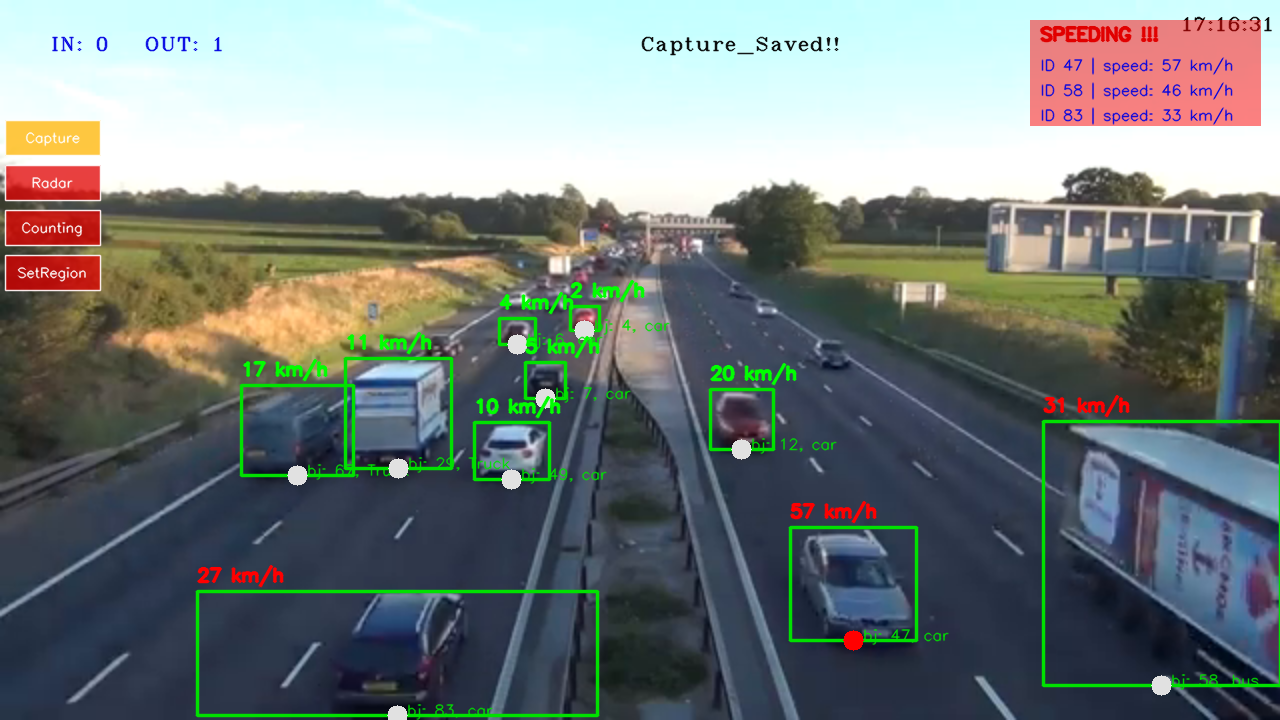
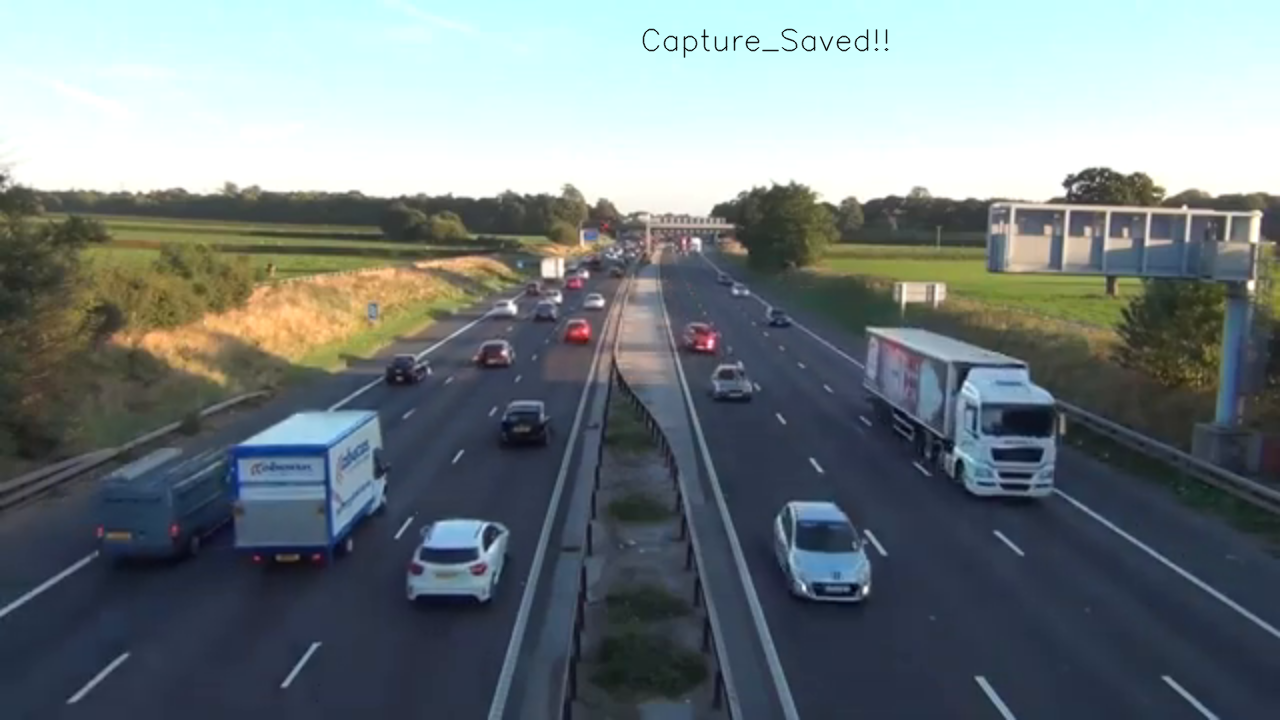
popups

diff --git a/main.py b/main.py
@@ -1,76 +1,120 @@
 from ultralytics import YOLO
 import cv2
-import numpy as np
 from counting import Counter
 from radar import Radar
 import time
-# from tools import Tools
-frame = 0
+import tkinter as tk
+from tkinter import messagebox
+root = tk.Tk()
+root.withdraw()
+
+# Show alert popup
+
+
 WIDTH = 1280
 HEIGHT = 720
-x1, y1, x2, y2 = 5, 120, 100, 155
+
 mouse_pos = (0, 0)
+
 drawing = False
-ix, iy, = -1, -1 
-fx, fy= -1, -1 
+ix, iy = -1, -1
 draw = 0
+region_mode = False
+regions = []
+
+def draw_regions(frame):
+
+    for x1, y1, x2, y2, color_id in regions:
+
+        if color_id == 0:
+            color = (0, 0, 225)
+        else:
+            color = (225, 0, 0)
+
+        cv2.rectangle(frame,(x1, y1),(x2, y2),color,2)
 
 def select_region(event, x, y, flags, param):
-    global ix, iy, fx, fy, drawing, img, backup_img, draw
-    frame  = param["frame"]
-    backup_img =  frame.copy()
-        # tools =  param["tools"]
+
+    global mouse_pos
+    global drawing, ix, iy
+    global draw, region_mode, regions
     radar = param["radar"]
     counter = param["counter"]
-    global mouse_pos 
+    frame = param["frame"]
+    img =  frame.copy()
+    shapes_history = []
+    trigger_alert = True
+    if frame is None:
+        return
+    mouse_pos = (x, y)
+
     if event == cv2.EVENT_MOUSEMOVE:
-        mouse_pos = (x, y)
-    elif event ==cv2.EVENT_LBUTTONDOWN:
-        if (5<x<100) and (120<y<155):#cap
-            frame= param["frame"]
+
+        if drawing:
+            param["current_x"] = x
+            param["current_y"] = y
+        return
+    
+    if event == cv2.EVENT_LBUTTONDOWN:
+        if 5 < x < 100 and 120 < y < 155:
             if frame is not None:
                 capture = frame.copy()
-                cv2.putText(capture, "Capture_Saved!! ",(640,50),5,1,(0,0,0),1, cv2.LINE_AA)
+                cv2.putText(capture,"Capture_Saved!!",(640, 50),
+                            cv2.FONT_HERSHEY_SIMPLEX,1,(0, 0, 0),1,cv2.LINE_AA)
                 cv2.imwrite("Capture_saved.png",capture)
-        elif (5<x<100) and (165<y<200):#radar
-            radar.btn =not radar.btn 
-        elif (5<x<100) and (210<y<245):#counting
-            counter.btn= not counter.btn
-        elif (5<x<100) and (255<y<290):#ocr
-        #     tools.btn =  not tools.btn
-            if event == cv2.EVENT_LBUTTONDOWN and draw == 0: #red == 0
-                drawing = True
-                ix, iy = x, y
-            if event == cv2.EVENT_LBUTTONDOWN and draw == 1: #blue = -1
-                draw = 1
-                drawing = True
-                ix, iy = x, y
-            elif event == cv2.EVENT_MOUSEMOVE:
-                if drawing:
-                    frame = backup_img.copy() #reset the image avoid multi drawinf
-                    if draw == 0:
-                        cv2.rectangle(frame, (ix, iy), (x, y), (0, 0, 225), 2)
-                    elif draw == 1:
-                        cv2.rectangle(frame, (ix, iy), (x, y), (225, 0, 0), 2)
+            return
+        elif 5 < x < 100 and 165 < y < 200:         #*radar btn
+            radar.btn = not radar.btn
+            return
+        elif 5 < x < 100 and 210 < y < 245:         #*counter btn
+            messagebox.showwarning("Alert", "ALERT: Action Detected!")
+            root.destroy()
+        #rectangle coordinate
+        elif 5 < x < 100 and 255 < y < 290:          #*region_btn
+            region_mode = not region_mode
+            print("Region mode:", region_mode)
+            return
+        if region_mode:
+            drawing = True
+            ix = x
+            iy = y
+            param["current_x"] = x
+            param["current_y"] = y
 
-            elif event == cv2.EVENT_LBUTTONUP and draw == 0:#red 0
-                drawing = False
-                fx, fy = x, y
-                cv2.rectangle(backup_img, (ix, iy), (fx, fy), ( 0, 0, 225), 2)
-                frame = backup_img.copy()
-                draw= 1
+    elif event == cv2.EVENT_LBUTTONUP:
 
-            elif event == cv2.EVENT_LBUTTONUP and draw == 1:#blue 1
-                jx, jy = x, y
-                drawing = False
-                cv2.rectangle(backup_img, (ix, iy), (jx, jy ), ( 225, 0, 0), 2)
-                frame = backup_img.copy()
-                draw=0
+        if drawing:
+            fx = x
+            fy = y
 
+            regions.append(
+                (ix,  iy,fx,fy,draw))
+
+            print(
+                f"Region: {(ix, iy)} -> {(fx, fy)}")
+            draw = 1 - draw
+            drawing = False
+            trigger_alert = False
 
 
- 
- 
+def draw_current_region(frame, param): #while the scroolwheel event
+
+    if not param["drawing"]:
+        return
+
+    x1 = param["ix"]#first_click
+    y1 = param["iy"]
+
+    x2 = param["current_x"]#movewheel
+    y2 = param["current_y"]
+
+    if param["draw"] == 0:
+        color = (0, 0, 225)
+    else:
+        color = (225, 0, 0)
+    cv2.rectangle(frame,(x1, y1),(x2, y2),color,2)
+
+
 def Button(frame, text, x1, y1, x2, y2, mouse_pos):
 
     hover = (x1 <= mouse_pos[0] <= x2 and y1 <= mouse_pos[1] <= y2)
@@ -84,6 +128,7 @@ def Button(frame, text, x1, y1, x2, y2, mouse_pos):
 
     cv2.rectangle(overlay,(x1, y1),(x2, y2),bg_color,-1)
     cv2.addWeighted(overlay,0.75,frame,0.25,0,frame)
+
     cv2.rectangle(frame,(x1, y1),(x2, y2),(255, 255, 255),1,cv2.LINE_AA)
 
     font = cv2.FONT_HERSHEY_SIMPLEX
@@ -91,6 +136,7 @@ def Button(frame, text, x1, y1, x2, y2, mouse_pos):
     thickness = 1
 
     text_size = cv2.getTextSize(text,font,font_scale,thickness)[0]
+
     text_x = x1 + ((x2 - x1) - text_size[0]) // 2
     text_y = y1 + ((y2 - y1) + text_size[1]) // 2
 
@@ -98,42 +144,65 @@ def Button(frame, text, x1, y1, x2, y2, mouse_pos):
 
 
 def main():
+
     model = YOLO("yolo11n.pt")
-    cap = cv2.VideoCapture("source/traf.mp4")
+
+    cap = cv2.VideoCapture(
+        "source/traf.mp4"
+    )
+
     if not cap.isOpened():
         raise IOError("Could not open video")
     counter = Counter()
     radar = Radar()
-    # tools=  Tools()
-    mouse_data={
-        "radar":radar, "counter":counter,"frame":None
-    }
-    cv2.namedWindow('img')
+    mouse_data = {"radar": radar, #extra info for select_region
+                  "counter": counter,
+                  "frame": None,
+                  "drawing": False,"ix": -1,
+                  "iy": -1,
+                  "current_x": -1,
+                  "current_y": -1,
+                  "draw": 0}
 
+    cv2.namedWindow("img")
 
+    cv2.setMouseCallback("img",select_region,mouse_data)# additive data to the main function wile calling back 
     while True:
+
         ret, frame = cap.read()
+
         if not ret:
             break
-        frame = cv2.resize(frame,(WIDTH, HEIGHT))
-        result = model.track(frame,persist=True,tracker="bytetrack.yaml",classes=[2, 3, 7, 5],conf=0.25,imgsz=640)
-        # cv2.setMouseCallback('img', MouseControl, mouse_data)
-        cv2.setMouseCallback('img', select_region,mouse_data)
-        Button(frame,"Capture",5, 120,100, 155,mouse_pos)
-        Button(frame,"Radar",5, 165,100, 200,mouse_pos)
-        Button(frame,"Counting",5, 210,100, 245,mouse_pos)
-        Button(frame,"SetRegion",5, 255,100, 290,mouse_pos)
-        current_time  =  time.localtime()
-        formatted_time = time.strftime("%H:%M:%S", current_time)
-        cv2.putText(frame, str(formatted_time),(1280-100,30),5,1,(0,0,0),1, cv2.LINE_AA)
+
+        frame = cv2.resize(
+            frame,
+            (WIDTH, HEIGHT)
+        )
+
+        mouse_data["frame"] = frame.copy()
+
+        result = model.track(
+            frame,persist=True,tracker="bytetrack.yaml", classes=[2, 3, 7, 5],conf=0.25,imgsz=640)
 
         counter.count(result,frame)
+
         radar.radarr(result,frame)
-        mouse_data["frame"] = frame.copy()
+
+        draw_regions(frame)
+        draw_current_region(frame,mouse_data)
+
+        Button(frame,"Capture",5,120,100,155,mouse_pos)
+        Button(frame,"Radar",5,165,100,200,mouse_pos)
+        Button(frame,"Counting",5,210,100,245,mouse_pos)
+        Button(frame,"SetRegion\nCount",5,255,100,290,mouse_pos)
+        Button(frame,"UndoSetRegion",1,300,130,335,mouse_pos)
+        
+        current_time = time.localtime()
+        formatted_time = time.strftime("%H:%M:%S",current_time)
+
+        cv2.putText(frame,formatted_time,(WIDTH - 200, 30),cv2.FONT_HERSHEY_SIMPLEX,1,(0, 0, 0),1,cv2.LINE_AA)
         cv2.circle(frame,mouse_pos,4,(0, 0, 255),-1)
-
         cv2.imshow("img",frame)
-
         if cv2.waitKey(1) & 0xFF == ord("q"):
             break
 

diff --git a/alert.py b/alert.py
@@ -1,0 +1,10 @@
+import tkinter as tk
+from tkinter import messagebox
+
+# Hide the main Tkinter root window
+root = tk.Tk()
+root.withdraw()
+
+# Show alert popup
+messagebox.showwarning("Alert", "ALERT: Action Detected!")
+root.destroy()
